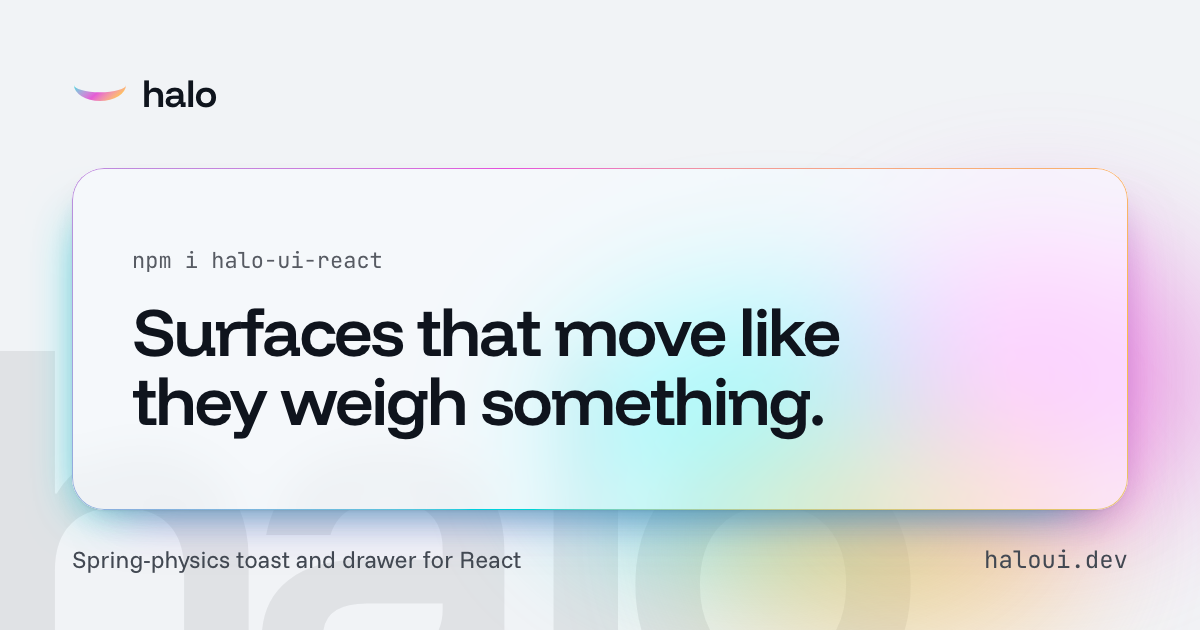
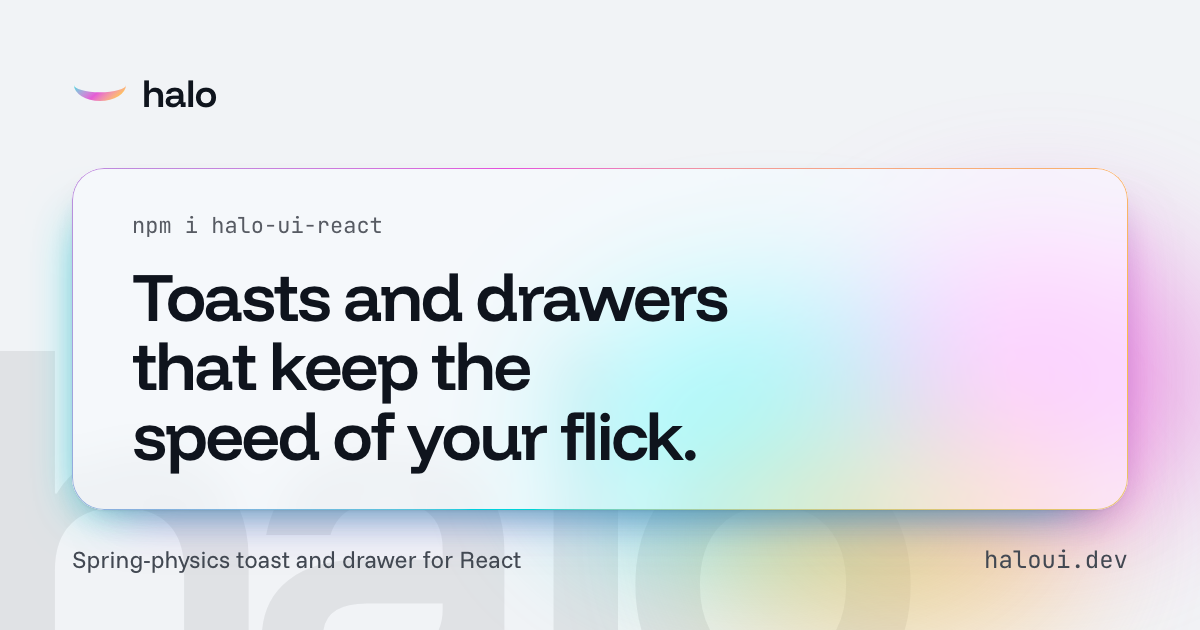
lead the hero with what Halo does: keep the speed of your flick
The old headline described a feeling, only made sense after dragging
the pane, and never said toast, drawer or React. The headline now
names the product and its difference; the subhead names the category.
The eyebrow stays "An alternative to Sonner and Vaul": the Vaul
migration renames props and removes parts, so it isn't a drop-in.

Changed region(s): [[0.0925, 0.3317, 0.7092, 0.754]]

diff --git a/apps/site/src/sections/hero.tsx b/apps/site/src/sections/hero.tsx
@@ -15,11 +15,11 @@ export function Hero() {
       <div className="relative z-[15] mx-auto flex max-w-[1240px] flex-col px-4 pt-28 sm:px-8 md:pt-32 lg:min-h-[min(100svh,980px)] lg:justify-end lg:pb-24">
         <p className="m-0 mb-5 text-ui font-medium text-ink-soft">An alternative to Sonner and Vaul</p>
         <h1 id="hero-heading" className="m-0 max-w-[15ch] text-[clamp(3rem,7.6vw,6rem)] leading-[0.94] font-semibold tracking-[-0.035em]">
-          Surfaces that move like they weigh something.
+          Toasts and drawers that keep the speed of your flick.
         </h1>
         <p className="mt-7 mb-0 max-w-[44ch] text-[clamp(17px,1.5vw,19px)] leading-[1.55] text-ink-soft">
-          A toast and a drawer for React on real springs. They keep the speed of your flick, announce every type to screen readers, and take the
-          same <code className="text-[0.92em]">toast()</code> calls as Sonner.
+          A spring-physics toast and drawer for React. Frosted glass, keyboard and screen-reader support built in, and the same{' '}
+          <code className="text-[0.92em]">toast()</code> calls as Sonner.
         </p>
         <div className="mt-9 flex flex-wrap items-center gap-3">
           <Magnet>

diff --git a/apps/site/og/og-images.spec.ts b/apps/site/og/og-images.spec.ts
@@ -33,7 +33,7 @@ for (const route of routes) {
   test(`og image for ${route.path}`, async ({ page }) => {
     await page.addInitScript(() => localStorage.setItem('halo-site', JSON.stringify({ world: 'dichroic', theme: 'light' })));
     await page.goto('/404.html');
-    const title = route === homeRoute ? 'Surfaces that move like they weigh something.' : route.ogAlt;
+    const title = route === homeRoute ? 'Toasts and drawers that keep the speed of your flick.' : route.ogAlt;
     const eyebrow = route.path.startsWith('/docs') ? `haloui.dev${route.path}` : 'npm i halo-ui-react';
     await page.evaluate((html) => {
       document.body.innerHTML = html;
